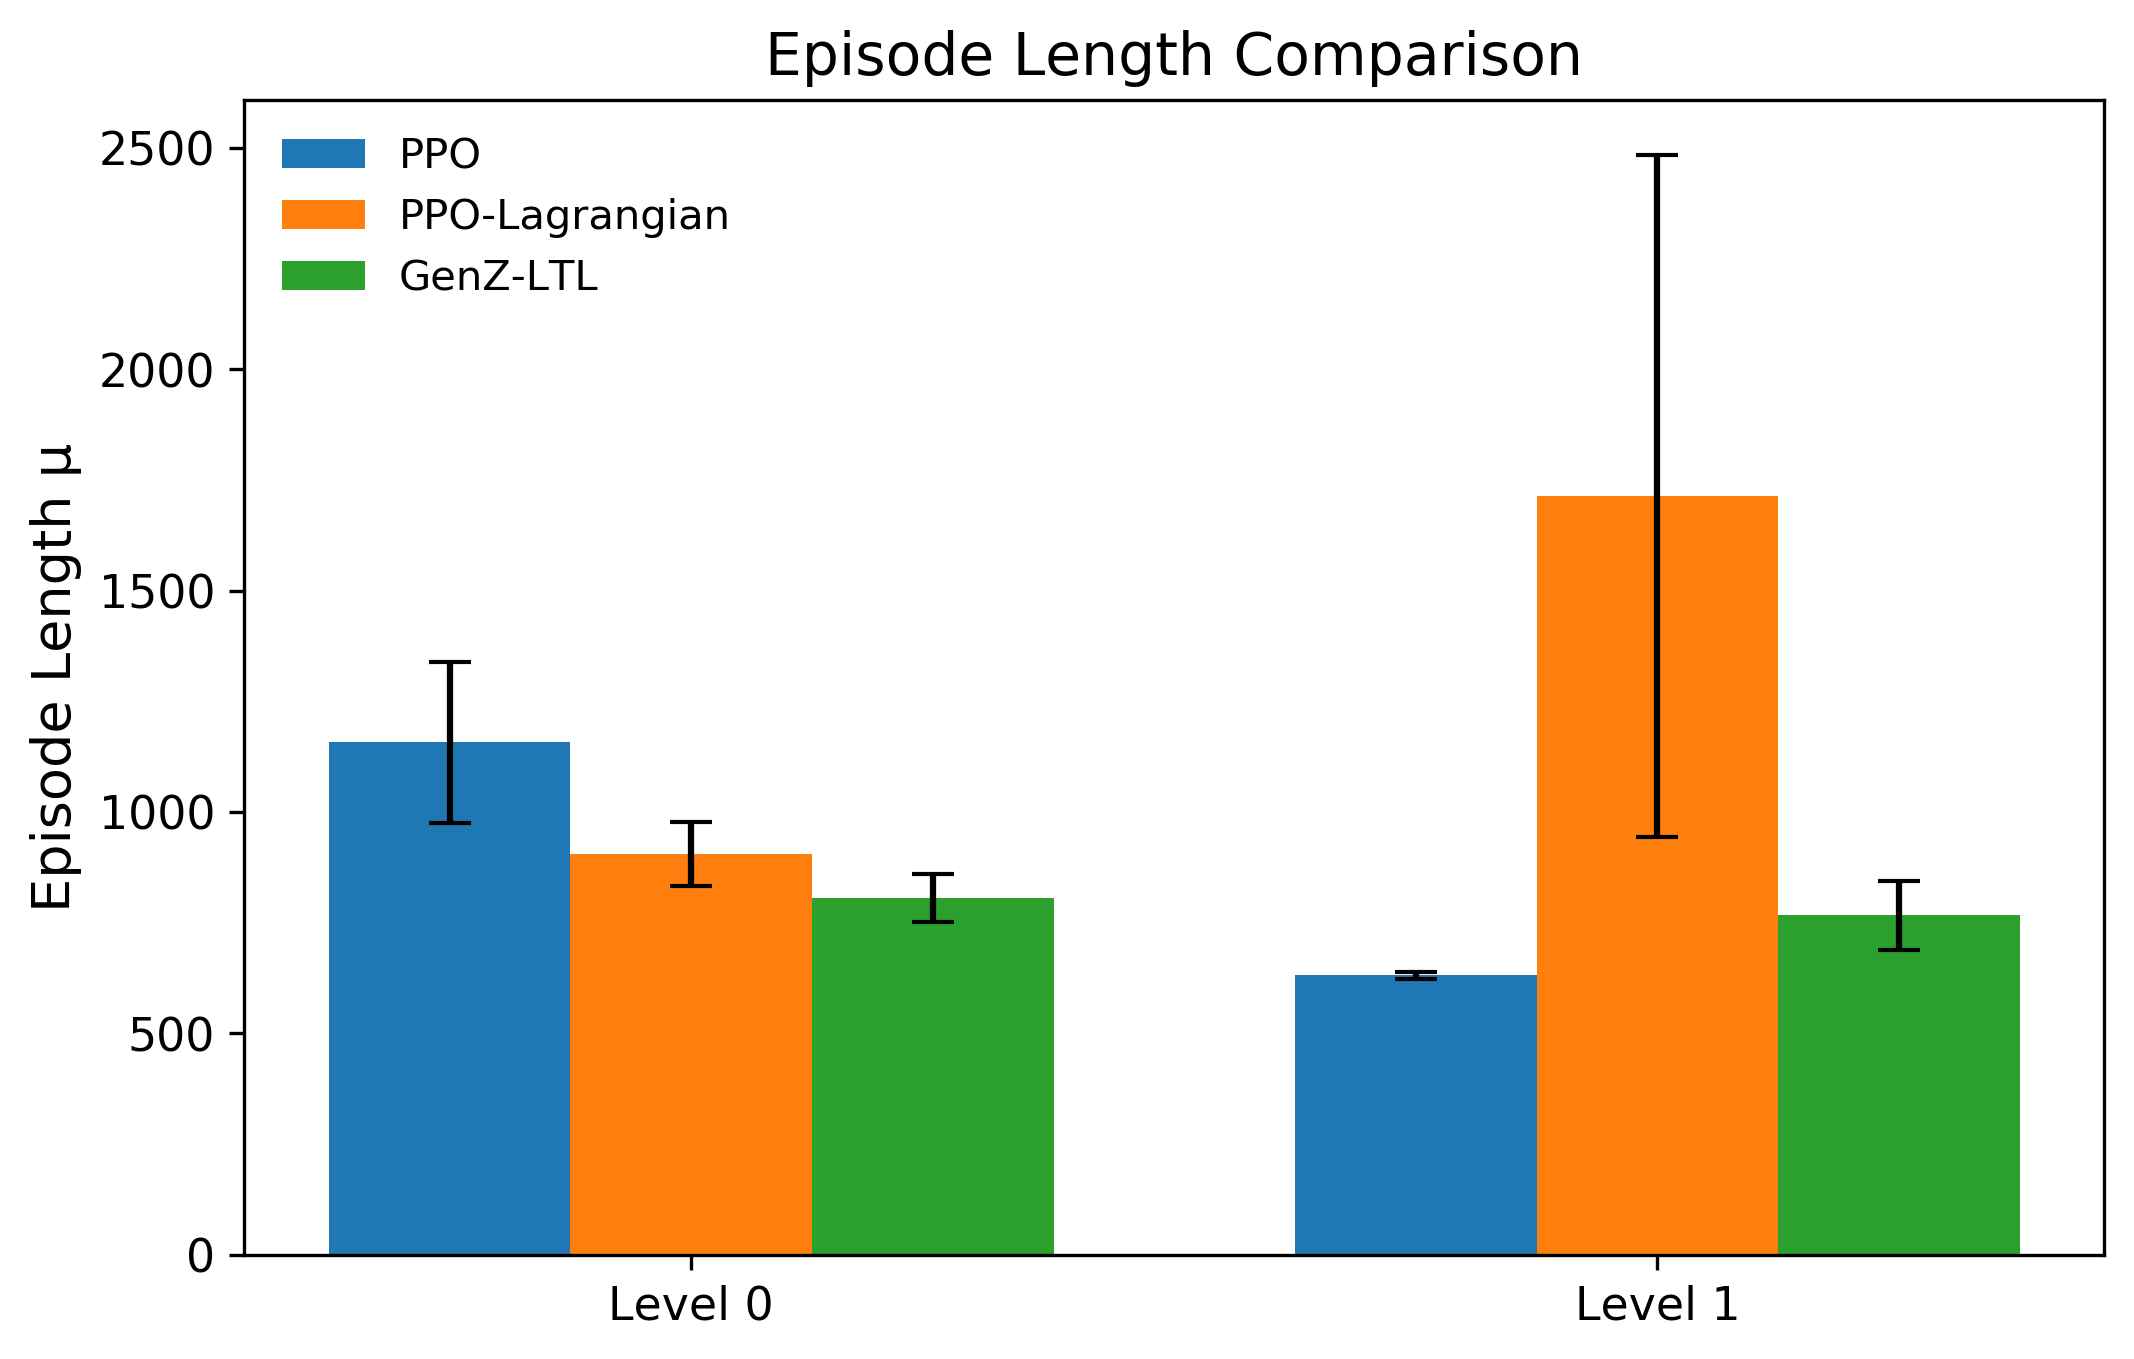
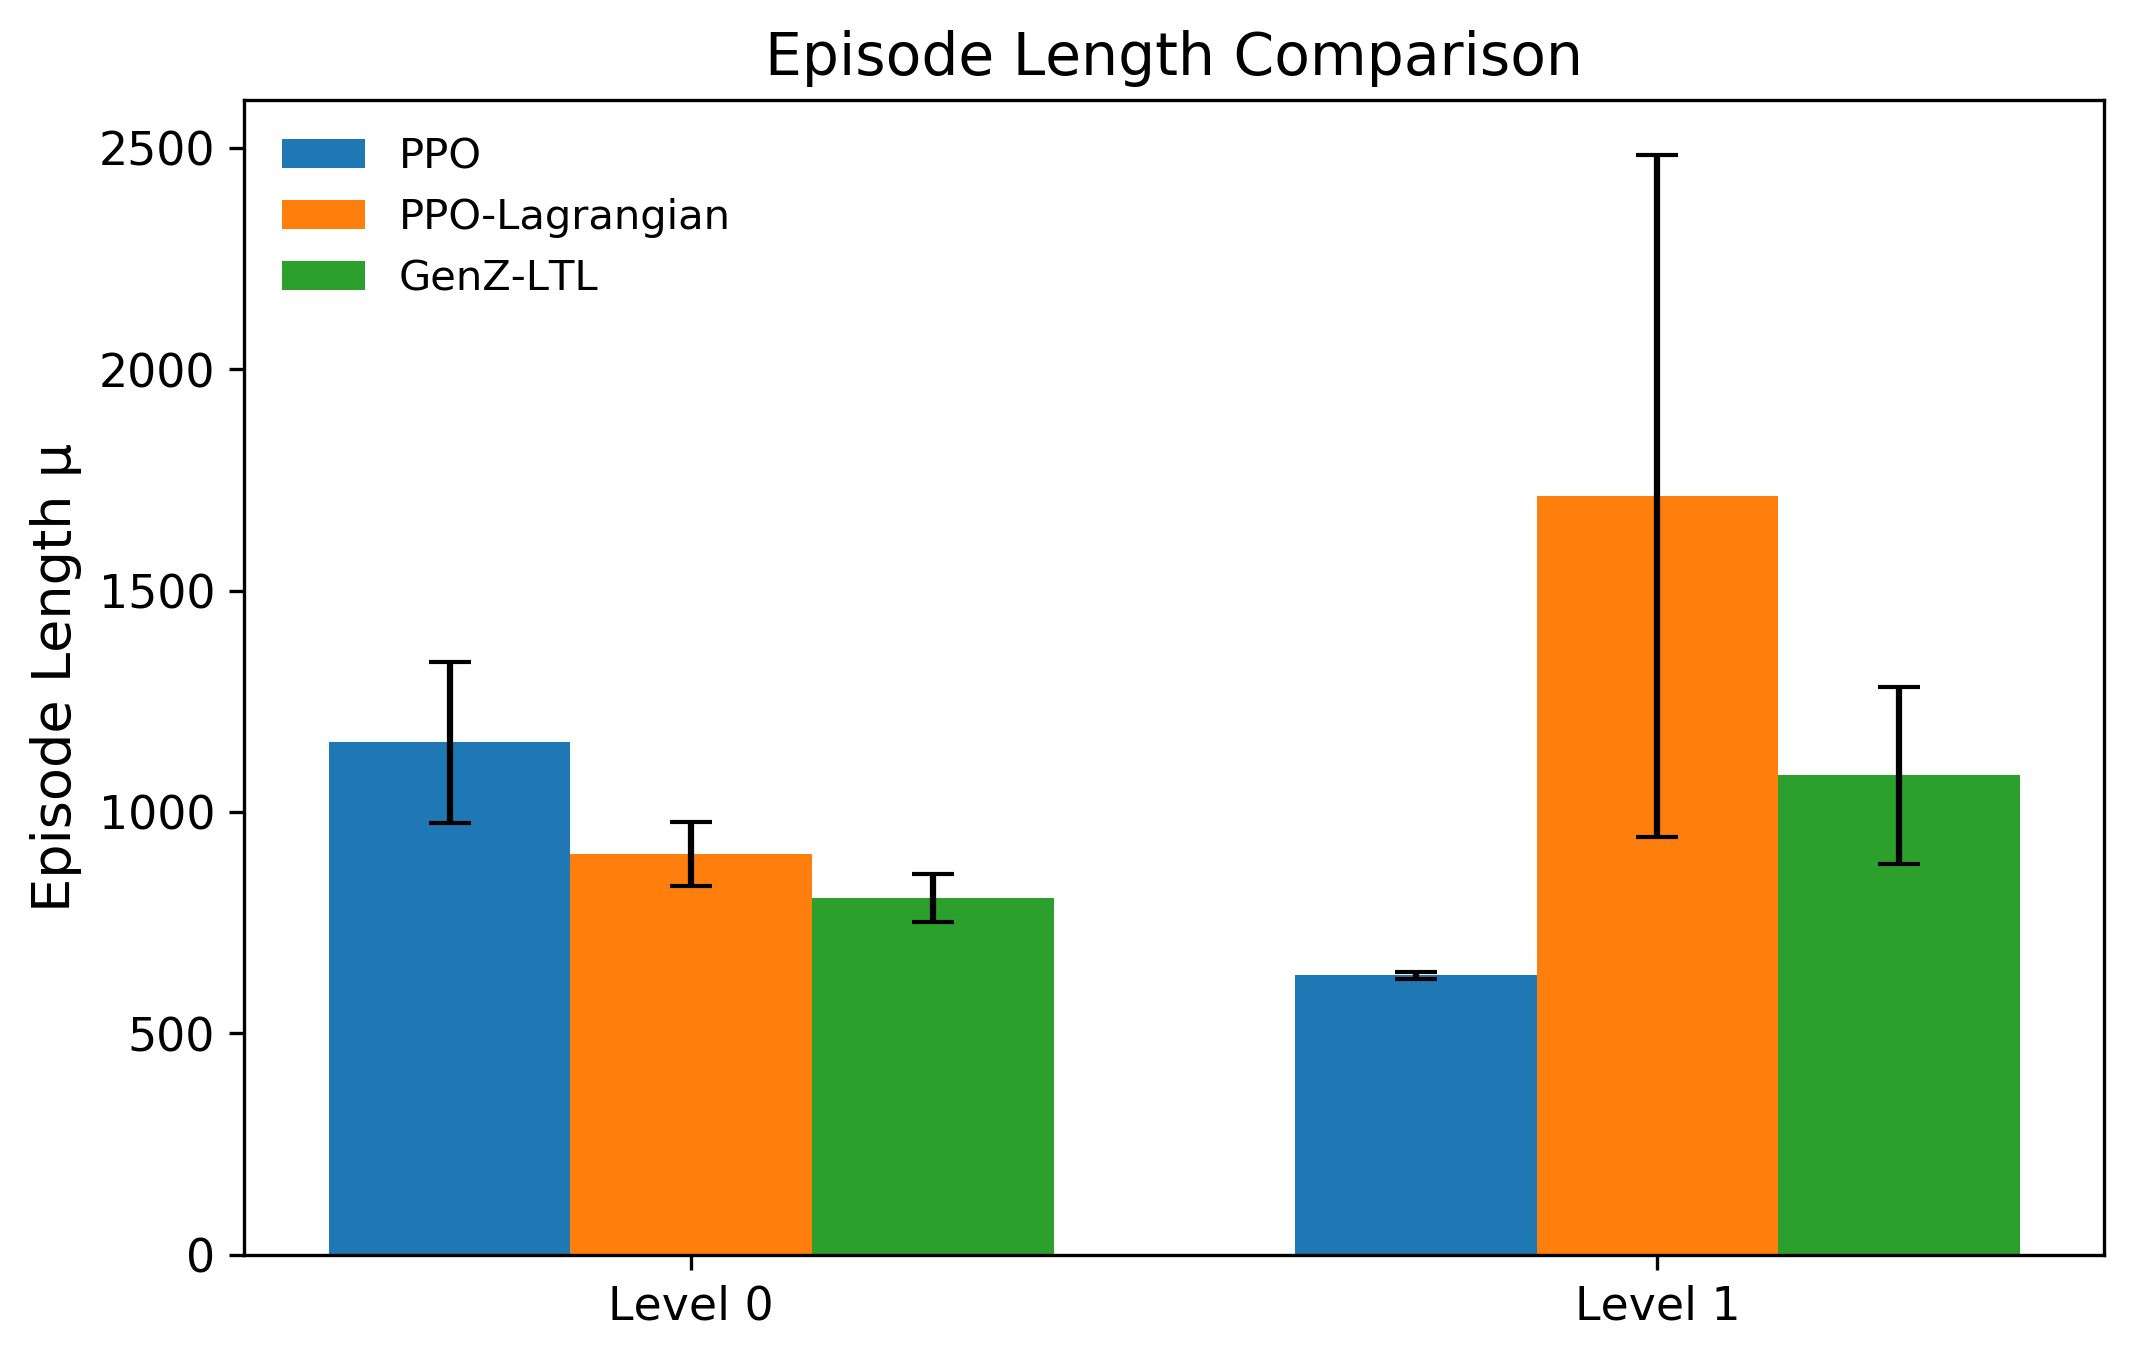
Updates training graphics based on ippo from Zijian

Changed region(s): [[0.8351, 0.4945, 0.9588, 0.7108]]

diff --git a/RISE-Training/visuals/ltl_graphs.py b/RISE-Training/visuals/ltl_graphs.py
@@ -22,7 +22,7 @@ data = {
         "Level 1": [
             [0.010, 0.010, 0.000, 0.000, 0.000],
             [0.000, 0.010, 0.030, 0.000, 0.000],
-            [0.080, 0.100, 0.170, 0.130, 0.240]
+            [0.120, 0.200, 0.030, 0.190, 0.120]
         ]
     },
 
@@ -37,7 +37,7 @@ data = {
         "Level 1": [
             [0.690, 0.740, 0.170, 0.190, 0.140],
             [0.570, 0.600, 0.570, 0.870, 0.510],
-            [0.910, 0.900, 0.820, 0.850, 0.750]
+            [0.720, 0.580, 0.580, 0.470, 0.610]
         ]
     },
 
@@ -52,7 +52,7 @@ data = {
         "Level 1": [
             [637.0, 625.0, np.nan, np.nan, np.nan],
             [np.nan, 2259.0, 1169.7, np.nan, np.nan],
-            [633.250, 786.600, 833.059, 785.077, 794.458]
+            [1000.833, 1167.300, 1381.667, 1008.895, 856.583]
         ]
     }
 }
